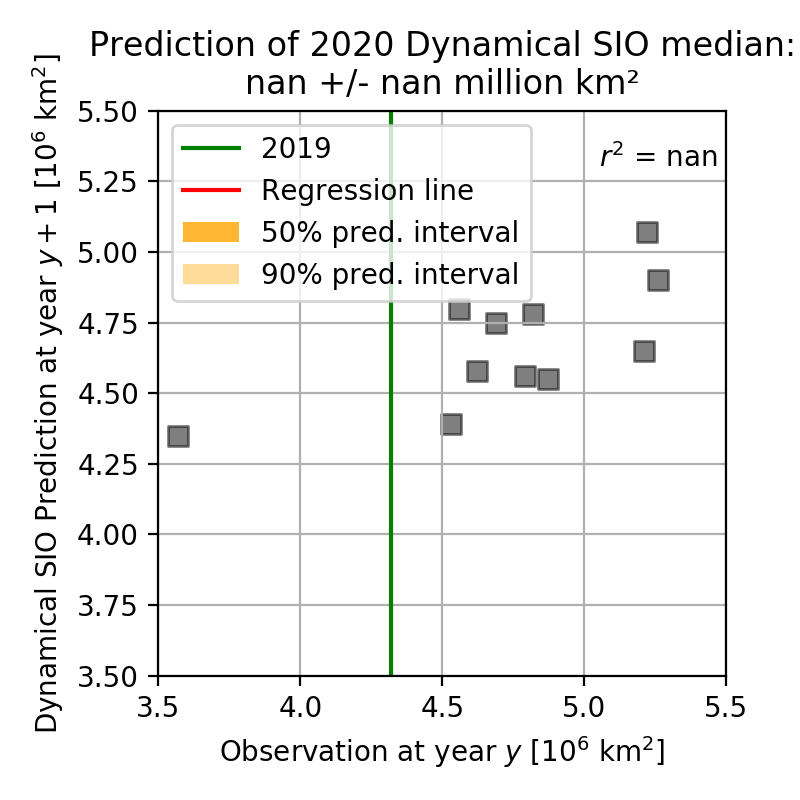
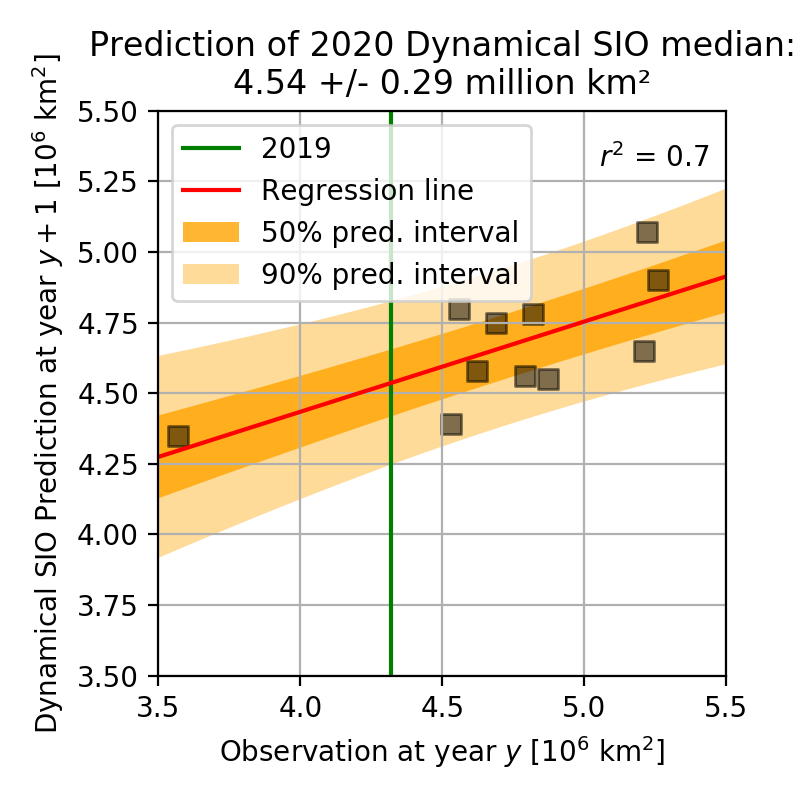
new commit

Changed region(s): [[0.1875, 0.1875, 0.9062, 0.7188], [0.4688, 0.0625, 0.8125, 0.125], [0.2812, 0.0938, 0.4062, 0.125]]

diff --git a/sio_predicting_predictions.py b/sio_predicting_predictions.py
@@ -26,7 +26,7 @@ method = 4
 #       Year   obs   [ALL,    DYN,    STAT,   HEUR,   MIX]
 data = [
         [2007, 4.27, [np.nan, np.nan, np.nan, np.nan, np.nan]],
-        [2008, 4.69, [4.3 ,   np.nan, 4.5,    4.1,    3.48  ]], # Value from Larry's file
+        [2008, 4.69, [4.3 ,   np.nan,  4.5,    4.1,    3.48  ]], # Value from Larry's file
         [2009, 5.26, [4.74,   4.75,   4.89,   4.67,   np.nan]], # Value from Larry's file
         [2010, 4.87, [4.9 ,   4.9,    4.9,    5.0,    np.nan]], # Value from Larry's file
         [2011, 4.56, [4.7 ,   4.55,   4.7,    4.8,    np.nan]], # From website (and so on)
@@ -47,6 +47,7 @@ preds = [d[2][method] for d in data]
 # Prediction of the next SIO
 
 fig, ax = plt.subplots(2, 2, figsize = (8, 8), dpi = 100)
+plt.suptitle(methname[method] + " contributions", fontsize = 30)
 
 ax1 = ax[0, 0]
 ax1.grid()
@@ -92,6 +93,7 @@ ax4.scatter(ssies[:-1], preds[1:], 50, marker = "s", alpha = 0.5, lw = 0.0, colo
 ax4.legend()
 
 fig.tight_layout()
+plt.subplots_adjust(top = 0.85)
 plt.savefig("./fig1_" + methname[method] + ".png")
 
 # Prediction of prediction
@@ -99,6 +101,11 @@ x = np.array(ssies[:-1])
 xnew = ssies[-1]
 
 y = np.array(preds[1:])
+
+# Exclude nans
+x = x[~np.isnan(y)]
+y = y[~np.isnan(y)]
+
 n = len(x)
 
 
